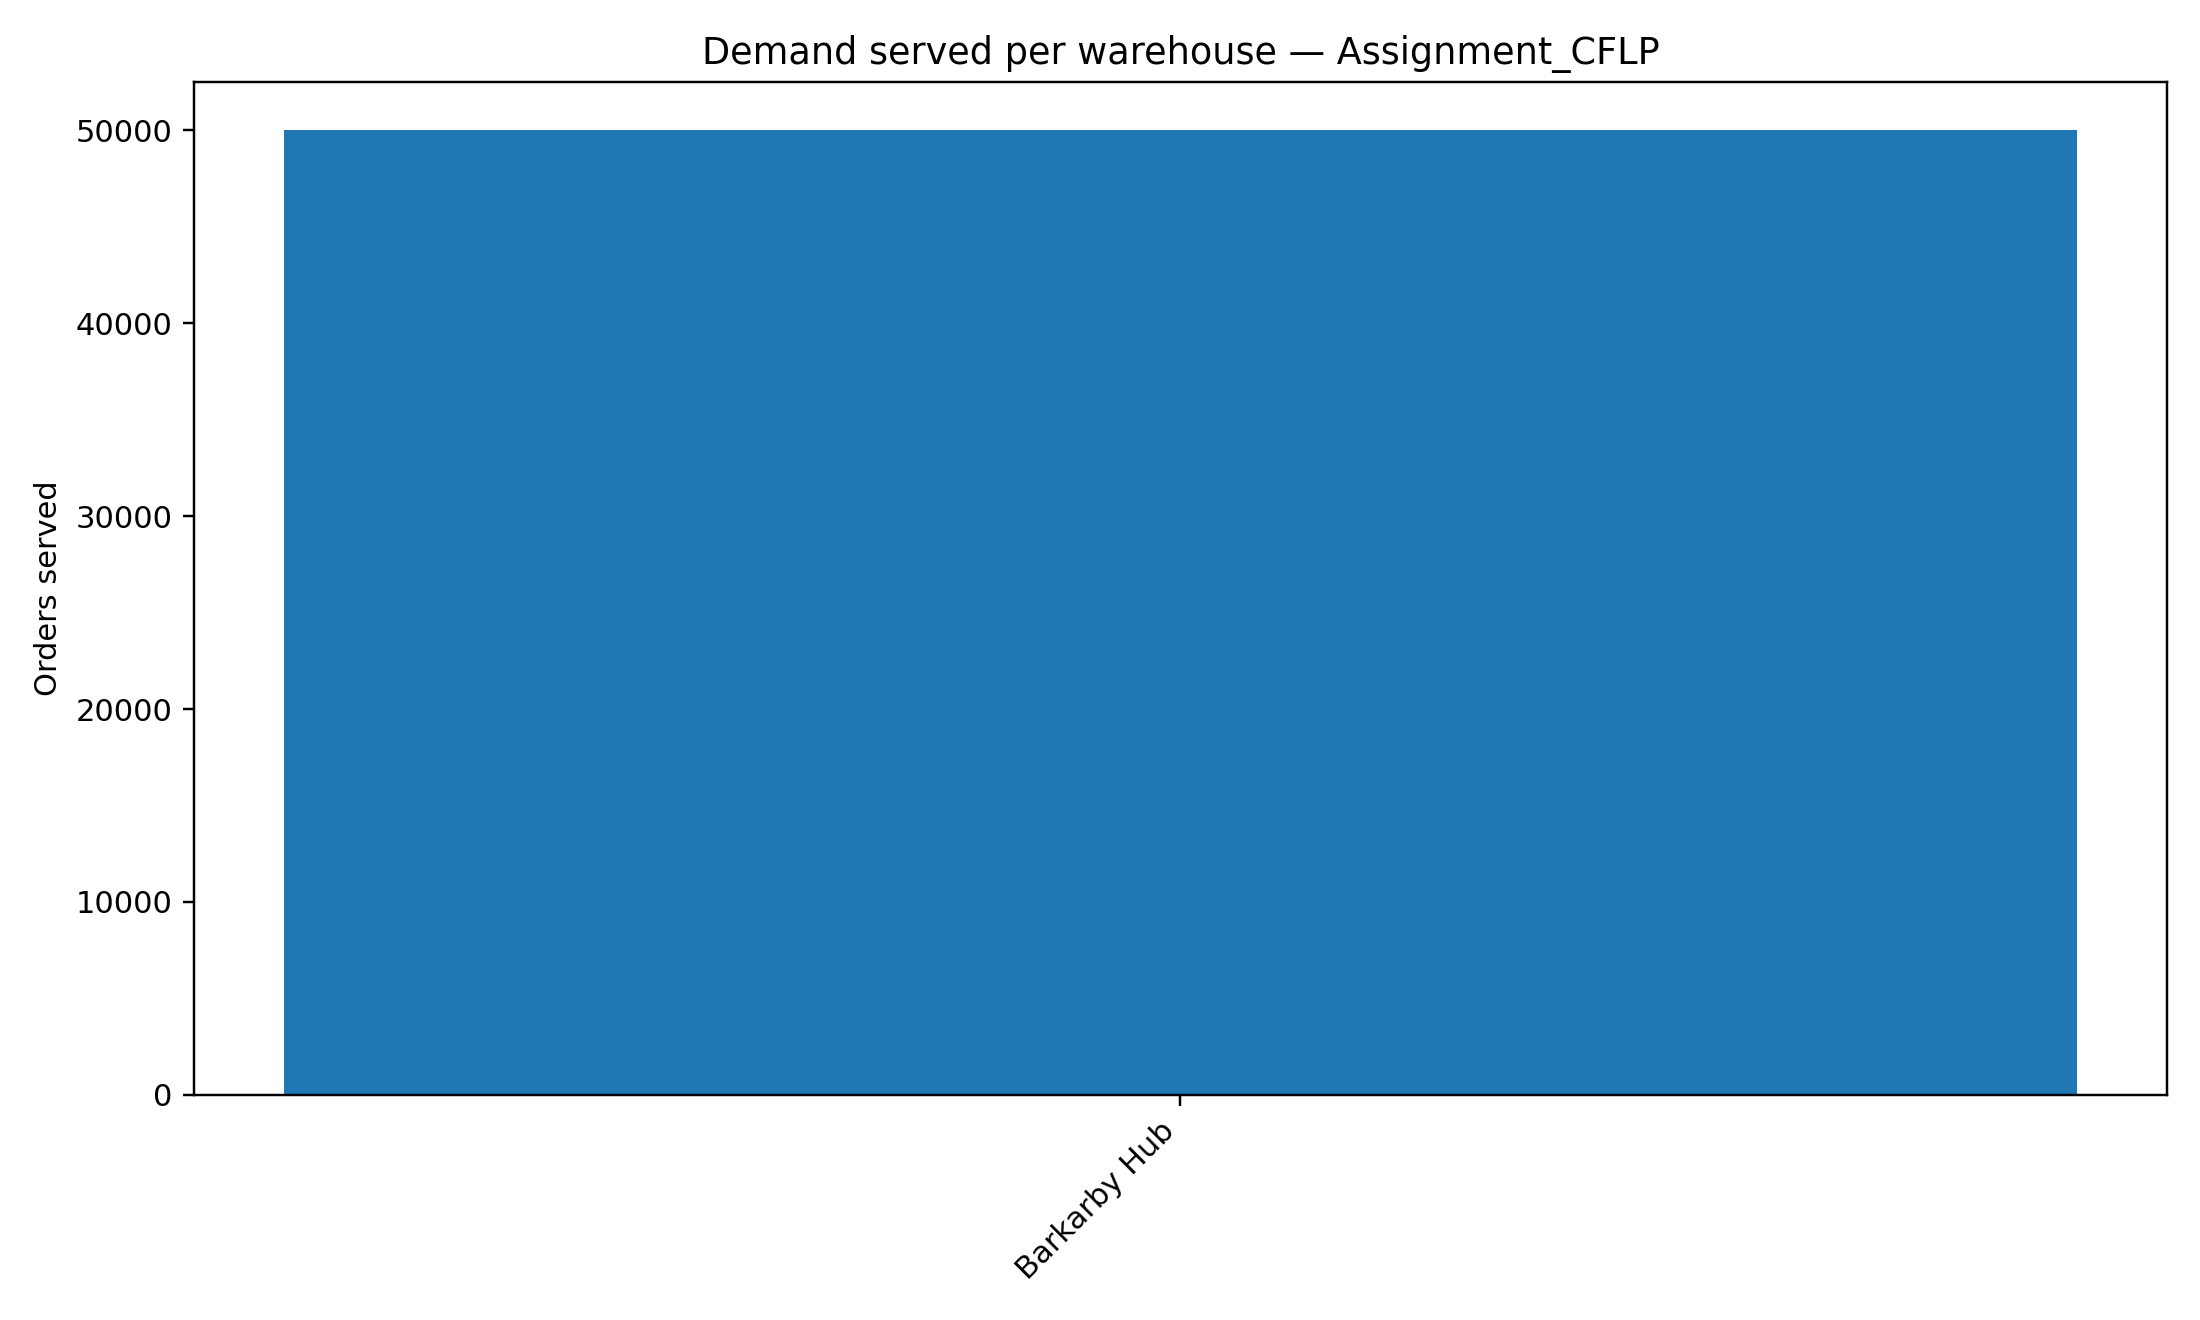
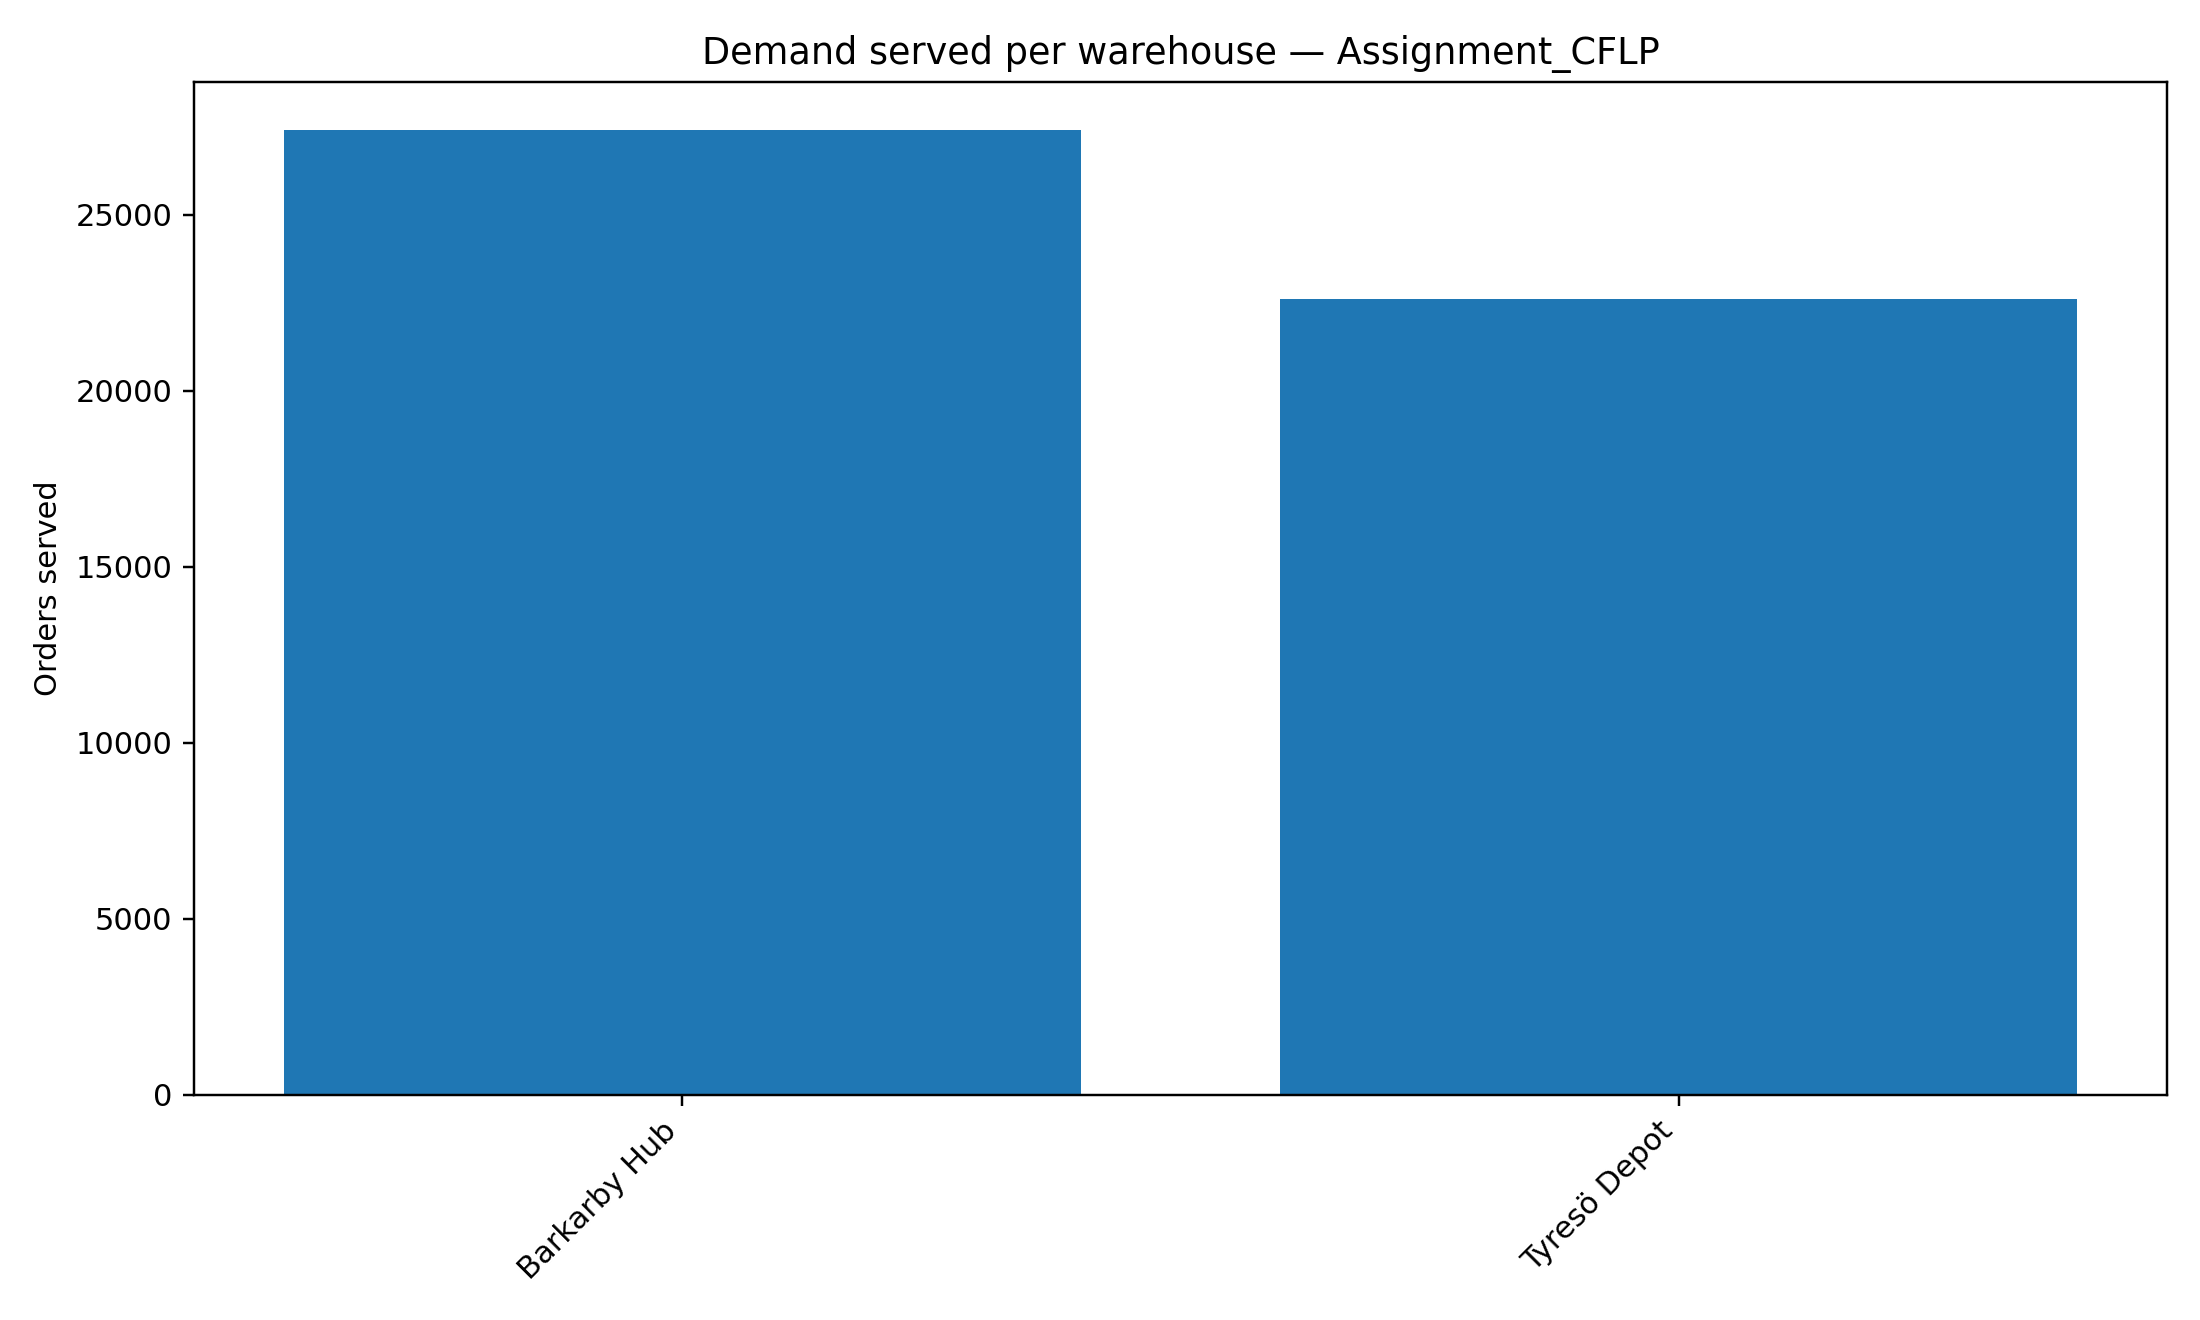
Updated a working model that only considers costs (and not time efficiency etc, that will be added next)

diff --git a/Ver2/optimize_real_sites.py b/Ver2/optimize_real_sites.py
@@ -18,7 +18,9 @@ python optimize_real_sites.py `
   --orders Data\orders_real.csv `
   --veh-cost-per-km 10 `
   --hours-per-day 24 --days 14 `
-  --max-new 1 `
+  --amort-years 7 `
+  --amortize-from-orders `
+  --max-new 2 `
   --out-dir Results
 
 UFLP:
@@ -42,6 +44,17 @@ from typing import Dict, Tuple, List
 import math, re
 import pandas as pd
 import pulp
+
+
+def to_frac(v):
+    """Turn 92 or '92%' -> 0.92; 0.92 stays 0.92; invalid -> 0."""
+    if pd.isna(v): return 0.0
+    s = str(v).strip().replace("%","")
+    try:
+        x = float(s)
+    except:
+        return 0.0
+    return x/100.0 if x > 1.0 else x
 
 
 def norm(s: str) -> str:
@@ -271,17 +284,69 @@ def main():
     ap.add_argument("--write-flows", action="store_true")
     ap.add_argument("--uncapacitated", action="store_true", help="Ignore capacity limits (UFLP).")
     ap.add_argument("--out-dir", default="Results")
-    ap.add_argument("--amort-years", type=float, default=None, help="If set, convert CAPEX to an amortized fixed cost over the horizon: CAPEX/amort_years * days/365.")
+    ap.add_argument("--amort-years", type=float, default=None,
+                    help="Amortize CAPEX over this many years: CAPEX/amort_years * (days/365).")
+    ap.add_argument("--amortize-from-orders", action="store_true",
+                    help="Infer days from min/max order timestamps (overrides --days for amortization only).")
+    ap.add_argument("--capacity-col", default=None,
+                    help="Use this warehouse column as the TOTAL horizon capacity (overrides rate-based capacity).")
+    ap.add_argument("--utilization-col", default=None,
+                    help="Warehouse utilization column; capacity is scaled by (1 - utilization).")
+    ap.add_argument("--utilization-applies", choices=["existing", "all"], default="existing",
+                    help="Apply utilization scaling to existing sites only (default) or all sites.")
+
     args = ap.parse_args()
 
     out_dir = Path(args.out_dir)
     wh = load_warehouses(Path(args.wh_existing), Path(args.wh_candidates),
                          hours_per_day=args.hours_per_day, days=args.days)
+
+    # Load lockers + demand
+    lk, demand = load_lockers_and_demand(Path(args.lockers), Path(args.orders))
+
+    amort_days = args.days
+    if args.amortize_from_orders:
+        od = pd.read_csv(args.orders)
+        # try to find a timestamp column
+        ts_col = None
+        for c in od.columns:
+            cl = c.lower()
+            if "time" in cl or "date" in cl:
+                ts_col = c;
+                break
+        if ts_col is None:
+            raise SystemExit("Could not find a timestamp column in orders for --amortize-from-orders.")
+        ts = pd.to_datetime(od[ts_col], errors="coerce")
+        ts = ts.dropna()
+        if len(ts) == 0:
+            raise SystemExit("No parseable timestamps found in orders for --amortize-from-orders.")
+        span_days = (ts.max().normalize() - ts.min().normalize()).days + 1
+        amort_days = max(1, span_days)
+
     if args.amort_years and args.amort_years > 0:
-        factor = (args.days / 365.0) / args.amort_years
+        factor = (amort_days / 365.0) / float(args.amort_years)
         wh["fixed_cost_sek"] = (wh["fixed_cost_sek"].astype(float) * factor).round(2)
 
-    lk, demand = load_lockers_and_demand(Path(args.lockers), Path(args.orders))
+    if args.capacity_col:
+        col = args.capacity_col
+        if col not in wh.columns:
+            raise SystemExit(f"--capacity-col '{col}' not found. Columns: {list(wh.columns)}")
+        cap_override = pd.to_numeric(wh[col], errors="coerce")
+        wh["capacity"] = cap_override.where(cap_override.notna(), wh["capacity"]).astype(float)
+
+    # Optionally scale capacity by (1 - utilization)
+    if args.utilization_col:
+        ucol = args.utilization_col
+        if ucol not in wh.columns:
+            raise SystemExit(f"--utilization-col '{ucol}' not found. Columns: {list(wh.columns)}")
+        util = wh[ucol].apply(to_frac).clip(lower=0.0, upper=1.0)
+        free_frac = (1.0 - util)
+        if args.utilization_applies == "existing":
+            mask = (wh["is_existing"] == 1)
+            wh.loc[mask, "capacity"] = (wh.loc[mask, "capacity"].astype(float) * free_frac[mask]).round(2)
+        else:
+            wh["capacity"] = (wh["capacity"].astype(float) * free_frac).round(2)
+
 
     build_and_solve(wh, lk, demand,
                     veh_cost_per_km=args.veh_cost_per_km,
